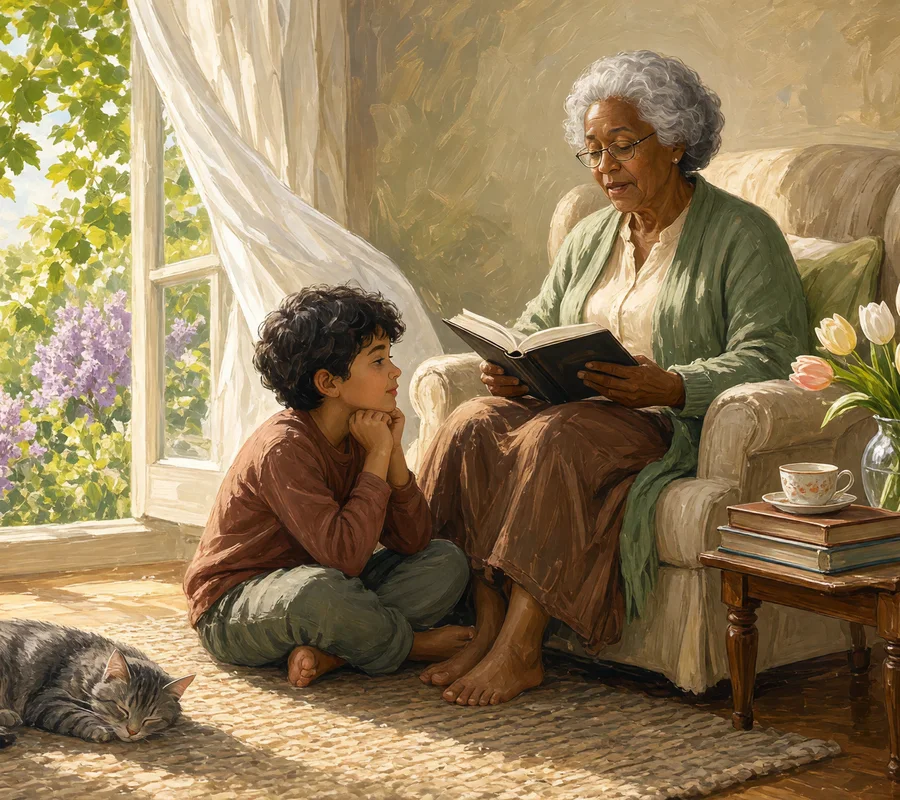
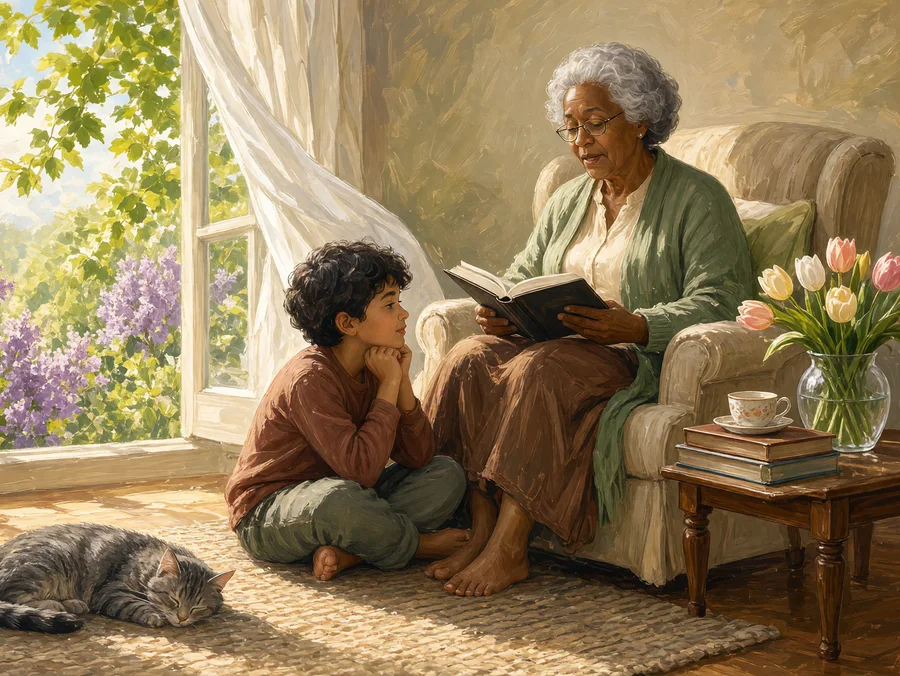
BLD 973 in progress: Readings hero photo above text on phones, tabs fit one row
Claude-Session: https://claude.ai/code/session_01EQUcTmJkxbryJSin77Fop4

diff --git a/shared/gg-readings.js b/shared/gg-readings.js
@@ -345,8 +345,8 @@
     ':root[data-theme="dark"] .ggr{--k-prayer:#B9A2E0;--k-scripture:#E3B46A;--k-blessing:#F0B56B;--k-poem:#86BEDB;--k-hymn:#A9CC8C;--k-reflection:#E9A086;--k-story:#E39BB7;}' +
     '@media (prefers-color-scheme: dark){:root:not([data-theme="light"]) .ggr{--k-prayer:#B9A2E0;--k-scripture:#E3B46A;--k-blessing:#F0B56B;--k-poem:#86BEDB;--k-hymn:#A9CC8C;--k-reflection:#E9A086;--k-story:#E39BB7;}}' +
     '.ggr-k-prayer{--k:var(--k-prayer);}.ggr-k-scripture{--k:var(--k-scripture);}.ggr-k-blessing{--k:var(--k-blessing);}.ggr-k-poem{--k:var(--k-poem);}.ggr-k-hymn{--k:var(--k-hymn);}.ggr-k-reflection{--k:var(--k-reflection);}.ggr-k-story{--k:var(--k-story);}' +
-    '.ggr-tabs{display:flex;flex-wrap:wrap;gap:8px;overflow-x:auto;scrollbar-width:none;margin:0 0 16px;padding:2px 2px 6px;-webkit-overflow-scrolling:touch;}.ggr-tabs::-webkit-scrollbar{display:none;}' +
-    '.ggr-tab{--k:var(--ggr-gold);flex:none;font-family:"Barlow Condensed",sans-serif;font-weight:700;font-size:16px;letter-spacing:1px;text-transform:uppercase;color:var(--ggr-ink);background:var(--ggr-card);border:2px solid var(--ggr-line);border-top:4px solid var(--k);border-radius:12px;padding:9px 16px;min-height:46px;cursor:pointer;}' +
+    '.ggr-tabs{display:flex;flex-wrap:wrap;gap:6px;overflow-x:auto;scrollbar-width:none;margin:0 0 16px;padding:2px 2px 6px;-webkit-overflow-scrolling:touch;}.ggr-tabs::-webkit-scrollbar{display:none;}' +
+    '.ggr-tab{--k:var(--ggr-gold);flex:none;font-family:"Barlow Condensed",sans-serif;font-weight:700;font-size:15px;letter-spacing:.8px;text-transform:uppercase;color:var(--ggr-ink);background:var(--ggr-card);border:2px solid var(--ggr-line);border-top:4px solid var(--k);border-radius:12px;padding:9px 12px;min-height:46px;cursor:pointer;}' +
     '.ggr-tab:hover{border-color:var(--k);}.ggr-tab[aria-pressed="true"]{background:var(--k);border-color:var(--k);color:#fff;}' +
     ':root[data-theme="dark"] .ggr-tab[aria-pressed="true"]{color:#1F1A14;}@media (prefers-color-scheme: dark){:root:not([data-theme="light"]) .ggr-tab[aria-pressed="true"]{color:#1F1A14;}}' +
     '.ggr-filters.ggr-f2{grid-template-columns:repeat(2,minmax(0,1fr));}' +

diff --git a/readings.html b/readings.html
@@ -48,7 +48,7 @@
   <nav class="site-menu" id="site-menu" aria-label="Main"><a href="index.html">Home</a><a href="tools.html" class="current" aria-current="page">Resources</a><a href="services.html">Services</a><a href="stories.html">Stories</a><a href="about.html">About</a><a href="contact.html">Contact</a></nav>
 </div></header>
 <main id="main">
-<section class="pg-hero soft ph ph-top" style="--shade-rgb:30,20,8;--shade-c:.42;--shade-m:.26;--shade-e:.12;--pos:50% 8%;--img:url(/shared/heroes/p/readings-hero-wide.webp);--img-n:url(/shared/heroes/p/readings-hero-narrow.webp)">
+<section class="pg-hero soft ph ph-top pp" style="--pos-n:50% 30%;--shade-rgb:30,20,8;--shade-c:.42;--shade-m:.26;--shade-e:.12;--pos:50% 0%;--img:url(/shared/heroes/p/readings-hero-wide.webp);--img-n:url(/shared/heroes/p/readings-hero-narrow.webp)">
   <div class="wrap pg-hero-in">
     <a class="cp-back" href="tools.html#every-day">&larr; Resources</a>
     <div class="eyebrow">Resources</div>
